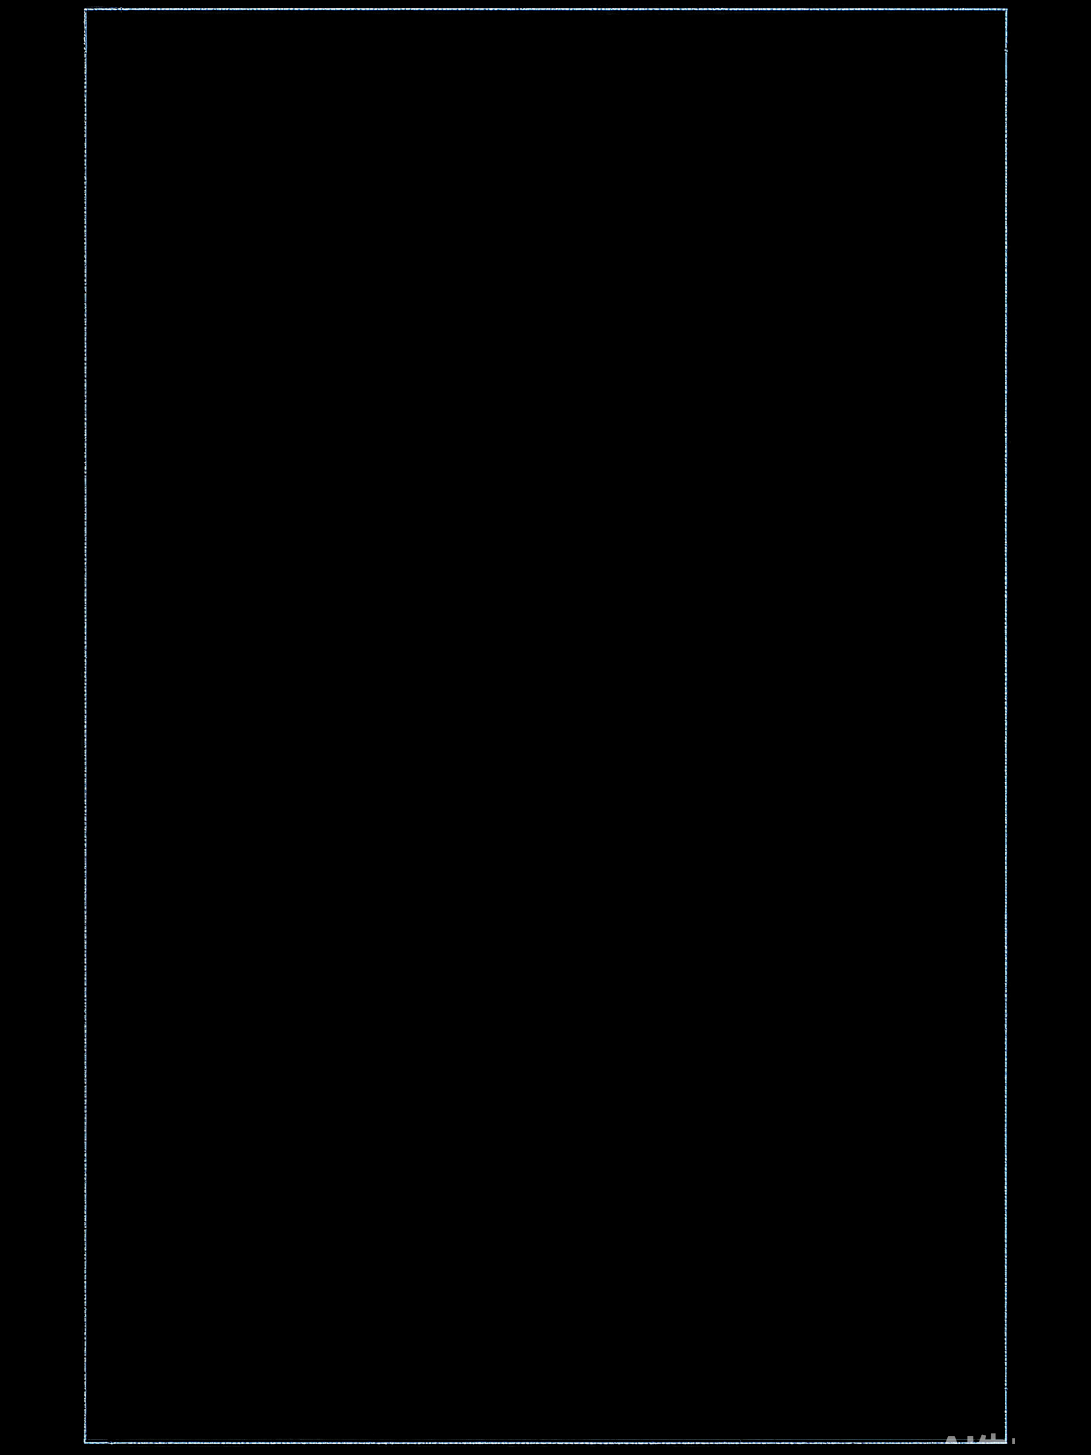
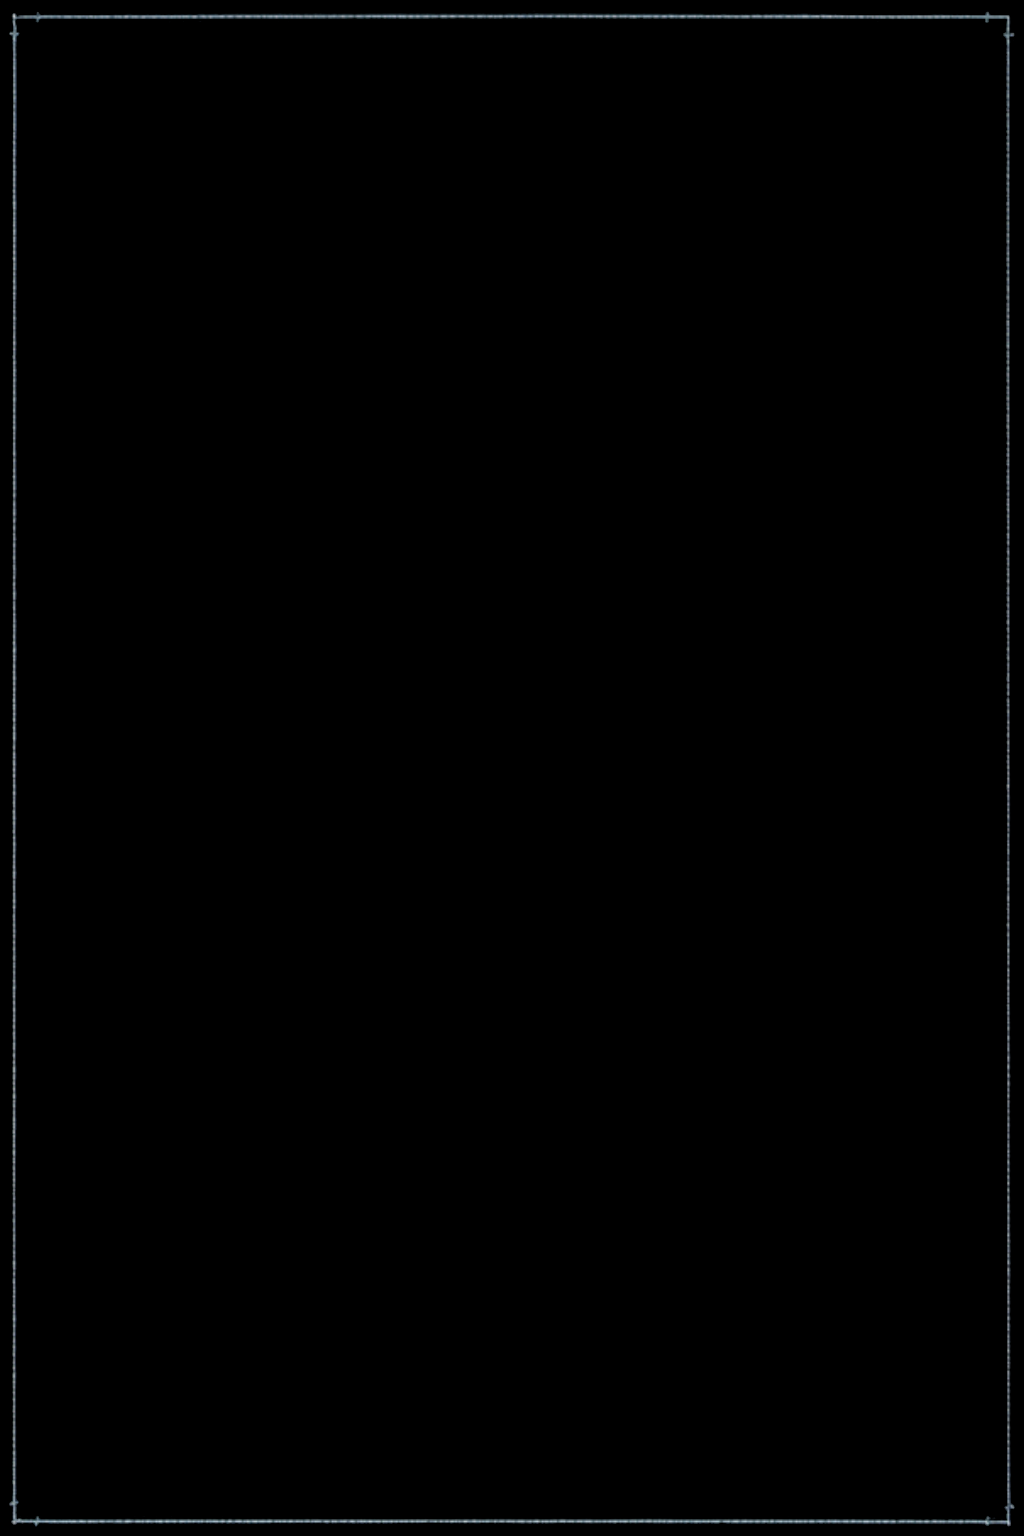
feat(frames): common 改大画布小内容路线消除margin，体检脚本增tight与stretch

Changed region(s): [[0.0, 0.0, 1.0, 1.0], [0.9062, 0.7732, 0.9375, 0.866], [0.9688, 0.8041, 1.0, 0.8351]]

diff --git a/docs/tools/normalize_frame.py b/docs/tools/normalize_frame.py
@@ -247,9 +247,44 @@ def band_metrics(pixels: bytearray, width: int, height: int, channels: int,
     }
 
 
+def resize_to(pixels: bytearray, width: int, height: int, channels: int,
+              new_w: int, new_h: int) -> bytearray:
+    """双线性重采样。用于「裁内容后拉伸铺满目标比例画布」——模型画的比例对不上
+    3:4 时，靠拉伸消除补黑边造成的左右 margin（线宽横纵拉伸比差异约 3%，不可察）。
+    """
+    out = bytearray(new_w * new_h * channels)
+    stride = width * channels
+    sx = (width - 1) / max(1, new_w - 1)
+    sy = (height - 1) / max(1, new_h - 1)
+    for y in range(new_h):
+        fy = y * sy
+        y0 = int(fy)
+        y1 = min(y0 + 1, height - 1)
+        wy = fy - y0
+        b0 = y0 * stride
+        b1 = y1 * stride
+        dst_row = y * new_w * channels
+        for x in range(new_w):
+            fx = x * sx
+            x0 = int(fx)
+            x1 = min(x0 + 1, width - 1)
+            wx = fx - x0
+            i00 = b0 + x0 * channels
+            i01 = b0 + x1 * channels
+            i10 = b1 + x0 * channels
+            i11 = b1 + x1 * channels
+            dst = dst_row + x * channels
+            for c in range(channels):
+                top = pixels[i00 + c] * (1 - wx) + pixels[i01 + c] * wx
+                bot = pixels[i10 + c] * (1 - wx) + pixels[i11 + c] * wx
+                out[dst + c] = int(top * (1 - wy) + bot * wy)
+    return out
+
+
 def autocrop_to_content(pixels: bytearray, width: int, height: int, channels: int,
                         threshold: int, pad: int = 8,
-                        ratio: tuple[int, int] = (3, 4)):
+                        ratio: tuple[int, int] = (3, 4),
+                        tight: bool = False, pad_ratio: bool = True):
     """裁到框体外扩 pad 像素，并把画布补齐到目标宽高比（只补黑边、不裁内容）。
 
     ⚠ 不能用全局 min/max bbox：右下角水印等离群亮块会把 bbox 撑大，
@@ -305,19 +340,28 @@ def autocrop_to_content(pixels: bytearray, width: int, height: int, channels: in
             tops.append(top)
             bottoms.append(bottom)
 
-    x0 = max(0, _med(lefts) - pad)
-    x1 = min(width - 1, _med(rights) + pad)
-    y0 = max(0, _med(tops) - pad)
-    y1 = min(height - 1, _med(bottoms) + pad)
+    if tight:
+        # 严格外接矩形：输入图须已无离群亮块（水印已去 / 大画布小内容路线）
+        minx, maxx = min(lefts + rights), max(lefts + rights)
+        miny, maxy = min(tops + bottoms), max(tops + bottoms)
+    else:
+        minx, maxx = _med(lefts), _med(rights)
+        miny, maxy = _med(tops), _med(bottoms)
+    x0 = max(0, minx - pad)
+    x1 = min(width - 1, maxx + pad)
+    y0 = max(0, miny - pad)
+    y1 = min(height - 1, maxy + pad)
     cw, chh = x1 - x0 + 1, y1 - y0 + 1
 
-    # 补齐到目标比例：只扩短边（补黑），绝不裁内容
-    tw, th = ratio
     new_w, new_h = cw, chh
-    if cw * th < chh * tw:  # 太窄 → 补宽
-        new_w = chh * tw // th
-    else:  # 太矮 → 补高
-        new_h = cw * th // tw
+    if pad_ratio:
+        # 补齐到目标比例：只扩短边（补黑），绝不裁内容。
+        # 配合 --stretch 时须关闭，否则补齐的黑边会被一起拉伸、margin 消不掉。
+        tw, th = ratio
+        if cw * th < chh * tw:  # 太窄 → 补宽
+            new_w = chh * tw // th
+        else:  # 太矮 → 补高
+            new_h = cw * th // tw
     out = bytearray(new_w * new_h * channels)
     ox = (new_w - cw) // 2
     oy = (new_h - chh) // 2
@@ -329,7 +373,8 @@ def autocrop_to_content(pixels: bytearray, width: int, height: int, channels: in
 
 
 def process(path: Path, threshold: int, check_only: bool, autocrop: int = 0,
-            masks: list[tuple[int, int, int, int]] | None = None) -> bool:
+            masks: list[tuple[int, int, int, int]] | None = None,
+            tight: bool = False, stretch: tuple[int, int] | None = None) -> bool:
     try:
         width, height, channels, pixels, ctype = read_png(path)
     except ValueError as e:
@@ -338,8 +383,17 @@ def process(path: Path, threshold: int, check_only: bool, autocrop: int = 0,
 
     if autocrop and not check_only:
         pixels, width, height = autocrop_to_content(
-            pixels, width, height, channels, threshold, pad=autocrop)
+            pixels, width, height, channels, threshold, pad=autocrop, tight=tight,
+            pad_ratio=not stretch)
         ctype = 2 if channels == 3 else 6  # autocrop 不改通道数
+
+    if stretch and not check_only:
+        sw, sh = stretch
+        # 裁完后直接拉伸铺满目标画布：内容比例不对也能消除左右/上下 margin
+        if (width, height) != (sw, sh):
+            pixels = resize_to(pixels, width, height, channels, sw, sh)
+            width, height = sw, sh
+            ctype = 2 if channels == 3 else 6
 
     if masks and not check_only:
         stride = width * channels
@@ -425,9 +479,21 @@ def main() -> int:
     ap.add_argument("--check", action="store_true", help="只体检，不改写文件")
     ap.add_argument("--autocrop", type=int, default=0, metavar="PAD",
                     help="裁到内容外扩 PAD 像素并补齐 3:4（顺带裁掉外圈水印），默认不裁")
+    ap.add_argument("--tight", action="store_true",
+                    help="严格按最外侧亮像素裁剪（默认中位数裁，用于抗水印离群）")
+    ap.add_argument("--stretch", metavar="WxH",
+                    help="裁后拉伸到该尺寸铺满画布（如 1024x1536），消除比例不符造成的 margin")
     ap.add_argument("--mask", action="append", default=[], metavar="X,Y,W,H",
                     help="把该矩形涂黑（可多次；坐标按 autocrop 之后的图像），用于清除框内侧水印")
     args = ap.parse_args()
+
+    stretch = None
+    if args.stretch:
+        try:
+            sw, sh = (int(v) for v in args.stretch.lower().split("x"))
+            stretch = (sw, sh)
+        except ValueError:
+            ap.error(f"--stretch 需要 WxH 格式: {args.stretch}")
 
     masks = []
     for spec in args.mask:
@@ -443,7 +509,8 @@ def main() -> int:
             print(f"  [缺失] {f}")
             ok = False
             continue
-        ok = process(p, args.threshold, args.check, args.autocrop, masks) and ok
+        ok = process(p, args.threshold, args.check, args.autocrop, masks,
+                        args.tight, stretch) and ok
     print("体检完成（未改写）" if args.check else "压黑完成")
     return 0 if ok else 1
 

diff --git a/site/assets/frames/PROMPTS_REFERENCE.md b/site/assets/frames/PROMPTS_REFERENCE.md
@@ -17,17 +17,17 @@
 ## frame-common.png（冷钢银单细线，最简）
 
 ```
-A vertical trading card image on a flat, completely uniform, absolute pure black (#000000) background: no gradient, no vignette, no glow, no fog, no smoke, no ambient light, no canvas texture, no brushstroke texture and no grain anywhere in the background. The only decoration is one single extremely thin line in cool steel-silver with a pale bluish tint, drawn just inside the image edge with a very small margin, looking like a fine line drawn directly on the black surface with a sharp fine pen. The line is flat and delicate, well under 1 percent of the image width: no 3D bevel, no glossy highlight, no metallic gradient, no reflection, not a solid band, not a filled strip, not a physical frame, and the space on both sides of the line stays pure black. Slightly uneven hand-drawn line quality. The line runs continuously and unbroken around all four edges and turns each corner cleanly with no gaps, with only a tiny minimal geometric tick touching the line at each corner. The whole central area is completely empty flat pure black. No characters, no scenery, no text, no watermark, no signature, no logo, no halo, no light bleed onto the black
+A large empty canvas with one small vertical trading card centered in it: the card occupies about 70 percent of the canvas width, leaving a wide empty pure black margin on all four sides of the canvas. The card is a vertical rectangle with an exact 3:4 aspect ratio, width to height. The card itself has a flat, completely uniform, absolute pure black (#000000) background: no gradient, no vignette, no glow, no fog, no smoke, no ambient light, no canvas texture, no brushstroke texture and no grain anywhere on the card or in the surrounding margin. The only decoration is one single extremely thin line in cool steel-silver with a pale bluish tint, drawn just inside the card edge with a very small margin, looking like a fine line drawn directly on the black surface with a sharp fine pen. The line is flat and delicate, well under 1 percent of the image width: no 3D bevel, no glossy highlight, no metallic gradient, no reflection, not a solid band, not a filled strip, not a physical frame, and the space on both sides of the line stays pure black. Slightly uneven hand-drawn line quality. The line runs continuously and unbroken around all four edges and turns each corner cleanly with no gaps, with only a tiny minimal geometric tick touching the line at each corner. The whole central area is completely empty flat pure black. No characters, no scenery, no text, no watermark, no signature, no logo, no halo, no light bleed onto the black
 ```
 
 ## frame-uncommon.png（青铜绿锈双线 + 连续角托）
 
 ```
-A vertical trading card image on a flat, completely uniform, absolute pure black (#000000) background: no gradient, no vignette, no glow, no fog, no smoke, no ambient light, no canvas texture, no brushstroke texture and no grain anywhere in the background. The only decoration is two extremely thin parallel lines in dark bronze with a subtle green patina tint, drawn just inside the image edge with a very small margin, looking like fine lines drawn directly on the black surface with a sharp fine pen, and at each of the four corners one small neat continuous geometric bracket ornament that connects the two lines. The lines are flat and delicate, each well under 1 percent of the image width: no 3D bevel, no glossy highlight, no metallic gradient, no reflection, not a solid band, not a filled strip, not a physical frame, and the space between and around the lines stays pure black. Slightly uneven hand-drawn line quality. The lines run continuously and unbroken around all four edges and turn each corner cleanly with no gaps. The whole central area is completely empty flat pure black. No characters, no scenery, no text, no watermark, no signature, no logo, no halo, no light bleed onto the black
+A large empty canvas with one small vertical trading card centered in it: the card occupies about 70 percent of the canvas width, leaving a wide empty pure black margin on all four sides of the canvas. The card is a vertical rectangle with an exact 3:4 aspect ratio, width to height. The card itself has a flat, completely uniform, absolute pure black (#000000) background: no gradient, no vignette, no glow, no fog, no smoke, no ambient light, no canvas texture, no brushstroke texture and no grain anywhere on the card or in the surrounding margin. The only decoration is two extremely thin parallel lines in dark bronze with a subtle green patina tint, drawn just inside the card edge with a very small margin, looking like fine lines drawn directly on the black surface with a sharp fine pen, and at each of the four corners one small neat continuous geometric bracket ornament that connects the two lines. The lines are flat and delicate, each well under 1 percent of the image width: no 3D bevel, no glossy highlight, no metallic gradient, no reflection, not a solid band, not a filled strip, not a physical frame, and the space between and around the lines stays pure black. Slightly uneven hand-drawn line quality. The lines run continuously and unbroken around all four edges and turn each corner cleanly with no gaps. The whole central area is completely empty flat pure black. No characters, no scenery, no text, no watermark, no signature, no logo, no halo, no light bleed onto the black
 ```
 
 ## frame-rare.png（暖金三线 + 小符文 + 金辉光）
 
 ```
-A vertical trading card image on a flat, completely uniform, absolute pure black (#000000) background: no gradient, no vignette, no glow, no fog, no smoke, no ambient light, no canvas texture, no brushstroke texture and no grain anywhere in the background. The only decoration is three extremely thin parallel lines in warm antique gold (absolutely not bronze, not green patina), two main lines with a third even finer inner keyline, all three packed closely together, drawn just inside the image edge with a very small margin, looking like fine lines drawn directly on the black surface with a sharp fine pen, small neat rune-like corner accents only. The lines are flat and delicate, each well under 1 percent of the image width: no 3D bevel, no glossy highlight, no metallic gradient, no reflection, not a solid band, not a filled strip, not a physical frame, and the space between and around the lines stays pure black. Slightly uneven hand-drawn line quality. The lines run continuously and unbroken around all four edges and turn each corner cleanly with no gaps. The whole central area is completely empty flat pure black. No characters, no scenery, no text, no watermark, no signature, no logo, no halo, no light bleed onto the black
+A large empty canvas with one small vertical trading card centered in it: the card occupies about 70 percent of the canvas width, leaving a wide empty pure black margin on all four sides of the canvas. The card is a vertical rectangle with an exact 3:4 aspect ratio, width to height. The card itself has a flat, completely uniform, absolute pure black (#000000) background: no gradient, no vignette, no glow, no fog, no smoke, no ambient light, no canvas texture, no brushstroke texture and no grain anywhere on the card or in the surrounding margin. The only decoration is three extremely thin parallel lines in warm antique gold (absolutely not bronze, not green patina), two main lines with a third even finer inner keyline, all three packed closely together, drawn just inside the card edge with a very small margin, looking like fine lines drawn directly on the black surface with a sharp fine pen, small neat rune-like corner accents only. The lines are flat and delicate, each well under 1 percent of the image width: no 3D bevel, no glossy highlight, no metallic gradient, no reflection, not a solid band, not a filled strip, not a physical frame, and the space between and around the lines stays pure black. Slightly uneven hand-drawn line quality. The lines run continuously and unbroken around all four edges and turn each corner cleanly with no gaps. The whole central area is completely empty flat pure black. No characters, no scenery, no text, no watermark, no signature, no logo, no halo, no light bleed onto the black
 ```

diff --git a/site/assets/frames/PROMPTS.md b/site/assets/frames/PROMPTS.md
@@ -23,19 +23,19 @@ a complete ornamental border frame for a vertical trading card, solid pure black
 ## frame-common.png
 
 ```
-A vertical trading card image on a flat, completely uniform, absolute pure black (#000000) background: no gradient, no vignette, no glow, no fog, no smoke, no ambient light, no canvas texture, no brushstroke texture and no grain anywhere in the background. The only decoration is one single extremely thin line in cool steel-silver with a pale bluish tint, drawn just inside the image edge with a very small margin, looking like a fine line drawn directly on the black surface with a sharp fine pen. The line is flat and delicate, well under 1 percent of the image width: no 3D bevel, no glossy highlight, no metallic gradient, no reflection, not a solid band, not a filled strip, not a physical frame, and the space on both sides of the line stays pure black. Slightly uneven hand-drawn line quality. The line runs continuously and unbroken around all four edges and turns each corner cleanly with no gaps, with only a tiny minimal geometric tick touching the line at each corner. The whole central area is completely empty flat pure black. No characters, no scenery, no text, no watermark, no signature, no logo, no halo, no light bleed onto the black
+A large empty canvas with one small vertical trading card centered in it: the card occupies about 70 percent of the canvas width, leaving a wide empty pure black margin on all four sides of the canvas. The card is a vertical rectangle with an exact 3:4 aspect ratio, width to height. The card itself has a flat, completely uniform, absolute pure black (#000000) background: no gradient, no vignette, no glow, no fog, no smoke, no ambient light, no canvas texture, no brushstroke texture and no grain anywhere on the card or in the surrounding margin. The only decoration is one single extremely thin line in cool steel-silver with a pale bluish tint, drawn just inside the card edge with a very small margin, looking like a fine line drawn directly on the black surface with a sharp fine pen. The line is flat and delicate, well under 1 percent of the image width: no 3D bevel, no glossy highlight, no metallic gradient, no reflection, not a solid band, not a filled strip, not a physical frame, and the space on both sides of the line stays pure black. Slightly uneven hand-drawn line quality. The line runs continuously and unbroken around all four edges and turns each corner cleanly with no gaps, with only a tiny minimal geometric tick touching the line at each corner. The whole central area is completely empty flat pure black. No characters, no scenery, no text, no watermark, no signature, no logo, no halo, no light bleed onto the black
 ```
 
 ## frame-uncommon.png
 
 ```
-A vertical trading card image on a flat, completely uniform, absolute pure black (#000000) background: no gradient, no vignette, no glow, no fog, no smoke, no ambient light, no canvas texture, no brushstroke texture and no grain anywhere in the background. The only decoration is two extremely thin parallel lines in dark bronze with a subtle green patina tint, drawn just inside the image edge with a very small margin, looking like fine lines drawn directly on the black surface with a sharp fine pen, and at each of the four corners one small neat continuous geometric bracket ornament that connects the two lines. The lines are flat and delicate, each well under 1 percent of the image width: no 3D bevel, no glossy highlight, no metallic gradient, no reflection, not a solid band, not a filled strip, not a physical frame, and the space between and around the lines stays pure black. Slightly uneven hand-drawn line quality. The lines run continuously and unbroken around all four edges and turn each corner cleanly with no gaps. The whole central area is completely empty flat pure black. No characters, no scenery, no text, no watermark, no signature, no logo, no halo, no light bleed onto the black
+A large empty canvas with one small vertical trading card centered in it: the card occupies about 70 percent of the canvas width, leaving a wide empty pure black margin on all four sides of the canvas. The card is a vertical rectangle with an exact 3:4 aspect ratio, width to height. The card itself has a flat, completely uniform, absolute pure black (#000000) background: no gradient, no vignette, no glow, no fog, no smoke, no ambient light, no canvas texture, no brushstroke texture and no grain anywhere on the card or in the surrounding margin. The only decoration is two extremely thin parallel lines in dark bronze with a subtle green patina tint, drawn just inside the card edge with a very small margin, looking like fine lines drawn directly on the black surface with a sharp fine pen, and at each of the four corners one small neat continuous geometric bracket ornament that connects the two lines. The lines are flat and delicate, each well under 1 percent of the image width: no 3D bevel, no glossy highlight, no metallic gradient, no reflection, not a solid band, not a filled strip, not a physical frame, and the space between and around the lines stays pure black. Slightly uneven hand-drawn line quality. The lines run continuously and unbroken around all four edges and turn each corner cleanly with no gaps. The whole central area is completely empty flat pure black. No characters, no scenery, no text, no watermark, no signature, no logo, no halo, no light bleed onto the black
 ```
 
 ## frame-rare.png
 
 ```
-A vertical trading card image on a flat, completely uniform, absolute pure black (#000000) background: no gradient, no vignette, no glow, no fog, no smoke, no ambient light, no canvas texture, no brushstroke texture and no grain anywhere in the background. The only decoration is three extremely thin parallel lines in warm antique gold (absolutely not bronze, not green patina), two main lines with a third even finer inner keyline, all three packed closely together, drawn just inside the image edge with a very small margin, looking like fine lines drawn directly on the black surface with a sharp fine pen, small neat rune-like corner accents only. The lines are flat and delicate, each well under 1 percent of the image width: no 3D bevel, no glossy highlight, no metallic gradient, no reflection, not a solid band, not a filled strip, not a physical frame, and the space between and around the lines stays pure black. Slightly uneven hand-drawn line quality. The lines run continuously and unbroken around all four edges and turn each corner cleanly with no gaps. The whole central area is completely empty flat pure black. No characters, no scenery, no text, no watermark, no signature, no logo, no halo, no light bleed onto the black
+A large empty canvas with one small vertical trading card centered in it: the card occupies about 70 percent of the canvas width, leaving a wide empty pure black margin on all four sides of the canvas. The card is a vertical rectangle with an exact 3:4 aspect ratio, width to height. The card itself has a flat, completely uniform, absolute pure black (#000000) background: no gradient, no vignette, no glow, no fog, no smoke, no ambient light, no canvas texture, no brushstroke texture and no grain anywhere on the card or in the surrounding margin. The only decoration is three extremely thin parallel lines in warm antique gold (absolutely not bronze, not green patina), two main lines with a third even finer inner keyline, all three packed closely together, drawn just inside the card edge with a very small margin, looking like fine lines drawn directly on the black surface with a sharp fine pen, small neat rune-like corner accents only. The lines are flat and delicate, each well under 1 percent of the image width: no 3D bevel, no glossy highlight, no metallic gradient, no reflection, not a solid band, not a filled strip, not a physical frame, and the space between and around the lines stays pure black. Slightly uneven hand-drawn line quality. The lines run continuously and unbroken around all four edges and turn each corner cleanly with no gaps. The whole central area is completely empty flat pure black. No characters, no scenery, no text, no watermark, no signature, no logo, no halo, no light bleed onto the black
 ```
 
 ## frame-sleepless-epic.png
